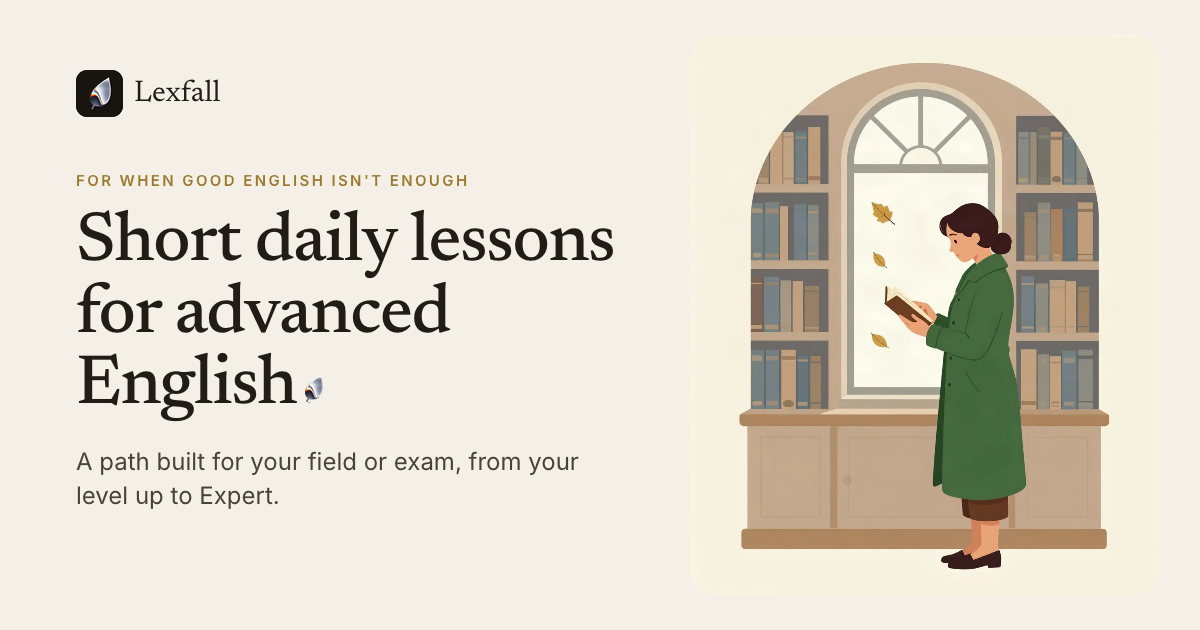
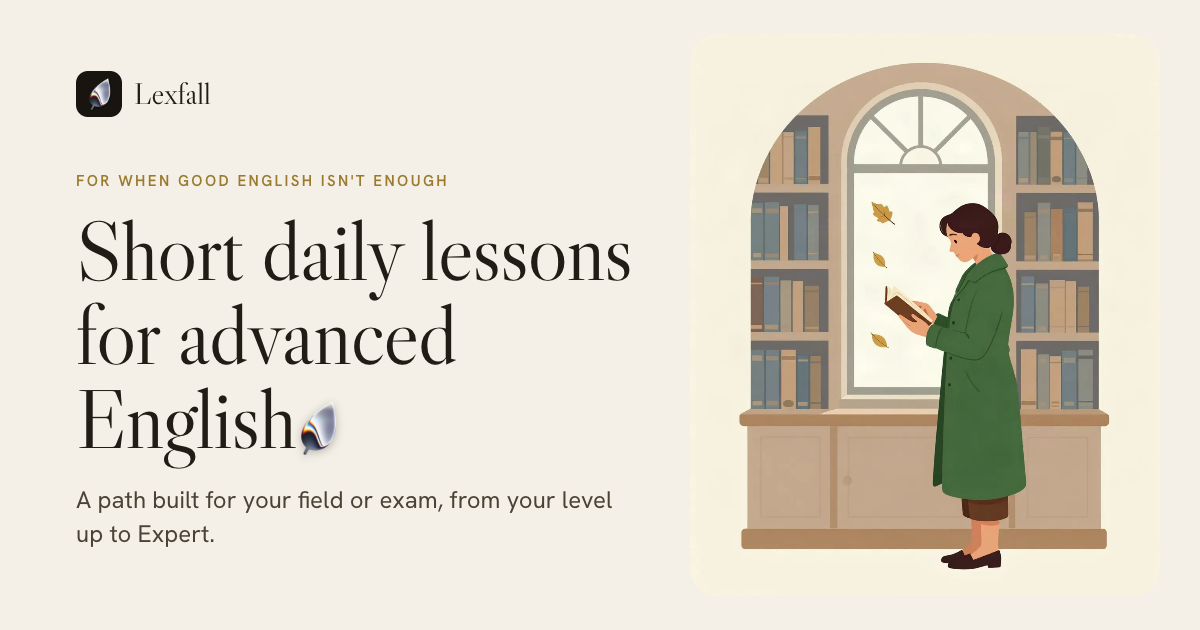
Preview B: OG image re-rendered in Libre Caslon (84px headline fills three lines)

Changed region(s): [[0.0617, 0.3317, 0.5242, 0.8746], [0.0617, 0.2714, 0.4008, 0.3016], [0.0617, 0.1206, 0.185, 0.181]]

diff --git a/scripts/og.html b/scripts/og.html
@@ -6,7 +6,7 @@
 .og .wm{display:inline-flex;align-items:center;gap:12px;font-family:var(--serif);font-size:30px}
 .og .wm img{width:46px;height:46px;border-radius:12px}
 .og .eb{display:block;margin-top:44px;font-family:var(--sans);font-weight:600;font-size:15px;letter-spacing:2.4px;text-transform:uppercase;color:#9A7B2E}
-.og h1{font-family:var(--serif);font-weight:500;font-size:70px;line-height:1.02;letter-spacing:-1.4px;margin:16px 0 0;color:#211D16}
+.og h1{font-family:var(--serif);font-weight:500;font-size:84px;line-height:1.0;letter-spacing:-1.2px;margin:16px 0 0;color:#211D16}
 .og p{font-family:var(--sans);color:#4A4335;font-size:24px;line-height:1.4;margin-top:22px;max-width:540px}
 .og .art{position:relative;padding:34px 40px 34px 0}
 .og .art img{width:100%;height:562px;object-fit:cover;object-position:50% 40%;border-radius:28px}</style></head>
